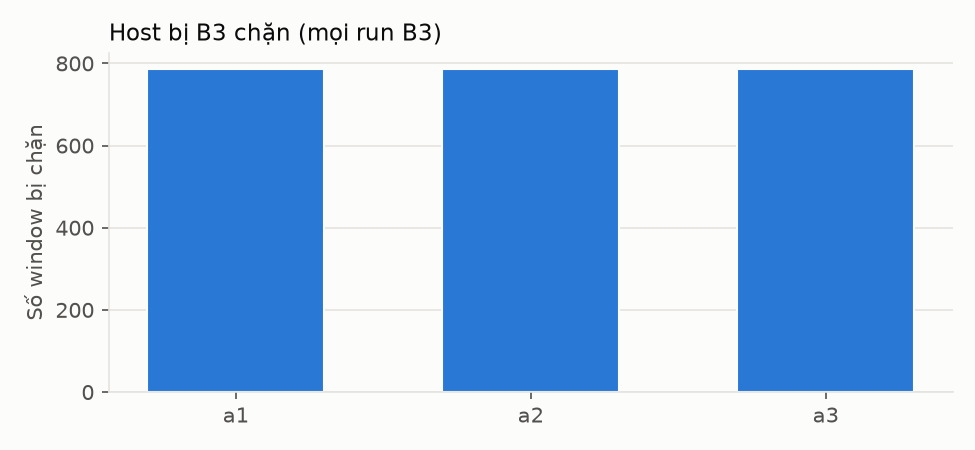
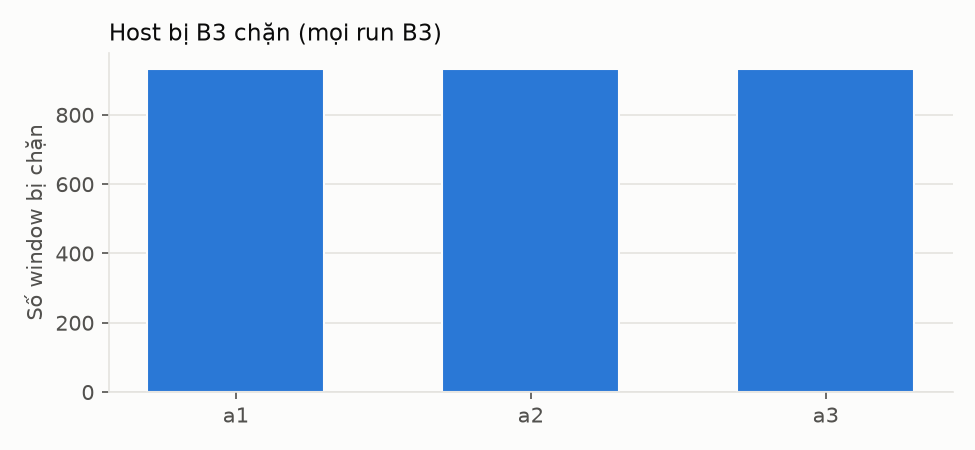
Thi nghiem bo sung S3S: SYN flood voi IP nguon gia mao
- attack_lab/run_net: tuy chon spoof (hping3 --rand-source), ghi vao ground truth
- configs/scenarios/S3S.yaml; 12 run B0-B3 x seed 10-12
- Ket qua: B3 van chan dung a1-a3, LSR 89.6% (B0 1.7%, B1/B2 ~2%);
  model van bat 100% du source_count ~580-955 chua tung thay luc train
- aggregate: Holm rieng cho ho chinh va ho bo sung (ten ket thuc "S")
- bao cao muc 7.4, cap nhat on tap (cau 4, 14), handbook, hinh tuan 10

diff --git a/traffic/attack_lab.py b/traffic/attack_lab.py
@@ -28,7 +28,7 @@ import sys
 from safety import assert_lab_target
 
 
-def run_syn(server, pps, duration, port):
+def run_syn(server, pps, duration, port, spoof=False):
     if shutil.which("hping3") is None:
         print("Chưa cài hping3. Cài: sudo apt-get install hping3")
         return 1
@@ -37,12 +37,12 @@ def run_syn(server, pps, duration, port):
     # 'timeout' chặn cứng thời lượng: hping3 -i uX thường chậm hơn danh
     # nghĩa, nếu dùng -c (số gói) thì tấn công kéo dài quá pha -> lệch nhãn.
     cmd = ["timeout", str(int(duration)), "hping3", "-S", "-p", str(port),
-           "-i", "u%d" % interval_us, server]
+           "-i", "u%d" % interval_us] + (["--rand-source"] if spoof else []) + [server]
     print("[attack:syn] rate~%d pps, %ds ->" % (pps, duration), " ".join(cmd))
     return subprocess.call(cmd, stdout=subprocess.DEVNULL)
 
 
-def run_udp_hping(server, mbps, duration, port, payload=1000):
+def run_udp_hping(server, mbps, duration, port, payload=1000, spoof=False):
     if shutil.which("hping3") is None:
         print("Chưa cài hping3. Cài: sudo apt-get install hping3")
         return 1
@@ -50,7 +50,8 @@ def run_udp_hping(server, mbps, duration, port, payload=1000):
     pps = max(1, int(mbps * 1e6 / 8 / (payload + 42)))
     interval_us = max(1, int(1_000_000 / pps))
     cmd = ["timeout", str(int(duration)), "hping3", "--udp", "-p", str(port),
-           "-d", str(payload), "-i", "u%d" % interval_us, server]
+           "-d", str(payload), "-i", "u%d" % interval_us] + \
+        (["--rand-source"] if spoof else []) + [server]
     print("[attack:udp] trần %dMbps (~%d pps), %ds ->" % (mbps, pps, duration),
           " ".join(cmd))
     return subprocess.call(cmd, stdout=subprocess.DEVNULL)
@@ -76,16 +77,21 @@ def main():
     ap.add_argument("--mbps", type=int, default=8, help="udp: Mbps trần")
     ap.add_argument("--port", type=int, default=80)
     ap.add_argument("--udp-tool", choices=["hping3", "iperf3"], default="hping3")
+    ap.add_argument("--spoof", action="store_true",
+                    help="giả mạo IP nguồn ngẫu nhiên (hping3 --rand-source). Chỉ "
+                         "dùng trong Mininet cô lập: phản hồi tới IP giả bị switch drop")
     args = ap.parse_args()
     assert_lab_target(args.server)
     if args.duration <= 0 or args.duration > 600:
         sys.exit("duration phải trong (0, 600] giây.")
 
     if args.type == "syn":
-        sys.exit(run_syn(args.server, args.pps, args.duration, args.port))
+        sys.exit(run_syn(args.server, args.pps, args.duration, args.port, args.spoof))
     else:
-        fn = run_udp_hping if args.udp_tool == "hping3" else run_udp
-        sys.exit(fn(args.server, args.mbps, args.duration, args.port))
+        if args.udp_tool == "hping3":
+            sys.exit(run_udp_hping(args.server, args.mbps, args.duration, args.port,
+                                   spoof=args.spoof))
+        sys.exit(run_udp(args.server, args.mbps, args.duration, args.port))
 
 
 if __name__ == "__main__":

diff --git a/analysis/report_tables.py b/analysis/report_tables.py
@@ -10,6 +10,7 @@ import csv
 import os
 
 SCN_NAME = {"S1": "S1 Normal", "S2": "S2 Flash", "S3": "S3 SYN flood",
+            "S3S": "S3S SYN flood IP giả mạo",
             "S4": "S4 UDP flood", "S5": "S5 Flash+DDoS", "S6": "S6 Nền đổi"}
 
 
@@ -58,7 +59,7 @@ def main():
           "(seed). B0 không phòng thủ nên không có metric phát hiện.", ""]
     pct = {"pct": True}
     num = {"pct": False}
-    md += table(rows, {"S3", "S4", "S5"}, [
+    md += table(rows, {"S3", "S3S", "S4", "S5"}, [
         ("lsr_attack", "LSR probe (pha tấn công)", pct),
         ("user_sr_attack", "Client hợp lệ OK (pha tấn công)", pct),
         ("lsr", "LSR cả run", pct),
@@ -71,7 +72,7 @@ def main():
         ("flash_sr", "User Flash OK", pct),
         ("lsr", "LSR cả run", pct),
     ], "Bảng B — Báo nhầm & Flash Crowd hợp lệ")
-    md += table(rows, {"S3", "S4", "S5"}, [
+    md += table(rows, {"S3", "S3S", "S4", "S5"}, [
         ("recall", "Recall", pct), ("precision", "Precision", pct),
         ("detection_latency_s", "Trễ phát hiện (s)", {"pct": False, "nd": 1}),
         ("mitigation_latency_s", "Trễ mitigation (s)", {"pct": False, "nd": 1}),
@@ -84,10 +85,11 @@ def main():
         st = list(csv.DictReader(open(args.stats)))
         md += ["### Bảng D — Kiểm định B3 so với từng baseline", "",
                "Đơn vị = run. Hiệu = mean(B3) − mean(baseline), CI95 bootstrap. "
-               "p đã hiệu chỉnh Holm trong từng metric. \"Tách hoàn toàn\" = mọi "
+               "p đã hiệu chỉnh Holm trong từng metric, riêng cho họ kịch bản chính "
+               "(S1–S6) và họ thí nghiệm bổ sung S3S (IP giả mạo). \"Tách hoàn toàn\" = mọi "
                "run của B3 tốt hơn mọi run của baseline (U = 0). Lưu ý: với n run/"
                "nhóm, p Mann-Whitney nhỏ nhất có thể đạt là 2/C(2n,n) (n=3 → 0.10; "
-               "n=5 → 0.0079), nên sau Holm với 9 phép so sánh, MW không thể xuống "
+               "n=5 → 0.0079), nên sau Holm với 9 phép so sánh (họ chính), MW không thể xuống "
                "dưới 0.05 dù hai nhóm tách hoàn toàn; Welch t-test (giả định gần "
                "chuẩn) là kiểm định chính, MW là kiểm tra phi tham số bổ trợ.", "",
                "| Metric | Scenario | So với | n | Hiệu (B3−X) | CI95 hiệu | Tách hoàn toàn | p Welch (Holm) | p MW (Holm) |",

diff --git a/mininet/run_net.py b/mininet/run_net.py
@@ -171,16 +171,18 @@ def run_scenario(net, scenario_path, seed=0, jitter=0.0, wait_detector=0.0):
             elif kind == "syn":
                 attack_ips.append(h.IP())
                 h.cmd("python3 %s/traffic/attack_lab.py --type syn --server %s "
-                      "--pps %d --duration %d >/tmp/%s.log 2>&1 &"
-                      % (ROOT, srv_ip, params["pps"], dur, hn))
+                      "--pps %d --duration %d %s>/tmp/%s.log 2>&1 &"
+                      % (ROOT, srv_ip, params["pps"], dur,
+                         "--spoof " if ph.get("spoof") else "", hn))
             elif kind == "udp":
                 attack_ips.append(h.IP())
                 h.cmd("python3 %s/traffic/attack_lab.py --type udp --server %s "
-                      "--mbps %d --duration %d --port 5201 >/tmp/%s.log 2>&1 &"
-                      % (ROOT, srv_ip, params["mbps"], dur, hn))
+                      "--mbps %d --duration %d --port 5201 %s>/tmp/%s.log 2>&1 &"
+                      % (ROOT, srv_ip, params["mbps"], dur,
+                         "--spoof " if ph.get("spoof") else "", hn))
         ground["phases"].append({"kind": kind, "start": ph["start"],
                                  "end": ph["end"], "hosts": hosts,
-                                 "params": params})
+                                 "params": params, "spoof": bool(ph.get("spoof"))})
 
     while time.time() - t0 < duration:
         time.sleep(0.5)

diff --git a/analysis/aggregate.py b/analysis/aggregate.py
@@ -272,8 +272,16 @@ def compare_all(groups, out_path, ref="B3", others=("B0", "B1", "B2")):
                              "p_welch": None if p_w is None else round(p_w, 6),
                              "separated": int(sep)})
         if fam:
-            adj = holm_bonferroni({"%s|%s" % k: v for k, v in fam.items()})
-            adj_w = holm_bonferroni({"%s|%s" % k: v for k, v in fam_w.items()})
+            # Holm theo HỌ: kịch bản chính và thí nghiệm bổ sung (tên kết thúc
+            # bằng "S", vd S3S = IP giả mạo, thêm sau khi họ chính đã chốt)
+            # được hiệu chỉnh riêng, để thêm thí nghiệm phụ không làm đổi kết
+            # luận của thiết kế chính.
+            adj, adj_w = {}, {}
+            for supp in (False, True):
+                keys = [k for k in fam if k[0].endswith("S") == supp]
+                if keys:
+                    adj.update(holm_bonferroni({"%s|%s" % k: fam[k] for k in keys}))
+                    adj_w.update(holm_bonferroni({"%s|%s" % k: fam_w[k] for k in keys}))
             for r in rows:
                 k = "%s|%s" % (r["scenario"], r["other"])
                 if r["metric"] == metric and k in adj:

diff --git a/analysis/weekly_figures.py b/analysis/weekly_figures.py
@@ -437,11 +437,12 @@ def week10_11(summary, raw, week7_dir, outdir):
         return print("[bỏ qua tuần 10–11] thiếu", summary)
     rows = MF.load_summary(summary)
     specs10 = [
-        (["S3", "S4", "S5"], "lsr_attack", "LSR probe trong pha tấn công",
+        (["S3", "S3S", "S4", "S5"], "lsr_attack", "LSR probe trong pha tấn công",
          "LSR trong pha tấn công (mean ± CI95)", "lsr_attack.png",
          ("B0", "B1", "B2", "B3"), (0, 1.05), "%.2f",
-         "Thước đo chính: tỉ lệ request probe thành công TRONG pha tấn công."),
-        (["S3", "S4", "S5"], "user_sr_attack", "Tỉ lệ thành công client hợp lệ",
+         "Thước đo chính: tỉ lệ request probe thành công TRONG pha tấn công. "
+         "S3S = SYN flood với IP nguồn giả mạo (thí nghiệm bổ sung, n = 3)."),
+        (["S3", "S3S", "S4", "S5"], "user_sr_attack", "Tỉ lệ thành công client hợp lệ",
          "Mọi client hợp lệ h1–h8 trong pha tấn công", "user_sr_attack.png",
          ("B0", "B1", "B2", "B3"), (0, 1.05), "%.2f",
          "Thước đo độc lập với feedback: client h1–h8 không được đưa vào vòng "

diff --git a/analysis/make_figures.py b/analysis/make_figures.py
@@ -39,7 +39,8 @@ BASE_COLOR = {"B0": "#2a78d6", "B1": "#eb6834", "B2": "#1baf7a", "B3": "#eda100"
 BASE_NAME = {"B0": "B0 không phòng thủ", "B1": "B1 threshold + RL thô",
              "B2": "B2 ML + RL thô", "B3": "B3 ML + chặn chọn lọc + feedback"}
 SCN_NAME = {"S1": "S1 Normal", "S2": "S2 Flash", "S3": "S3 SYN flood",
-            "S4": "S4 UDP flood", "S5": "S5 Flash+DDoS", "S6": "S6 Nền đổi"}
+            "S4": "S4 UDP flood", "S5": "S5 Flash+DDoS", "S6": "S6 Nền đổi",
+            "S3S": "S3S IP giả mạo"}
 PHASE_FILL = {"ddos": "#e3494822", "flash": "#6250d618"}
 
 plt.rcParams.update({

diff --git a/results/RESULTS.md b/results/RESULTS.md
@@ -10,6 +10,10 @@ Mỗi ô: trung bình ± nửa khoảng tin cậy 95% (t-Student) trên các run
 | S3 SYN flood | B1 | 5 | 35.9% ± 5.8 | 35.5% ± 6.6 | 67.8% ± 2.8 | 0.97 ± 0.04 | 3006 ± 144 |
 | S3 SYN flood | B2 | 5 | 37.2% ± 3.1 | 34.9% ± 3.7 | 68.5% ± 1.6 | 0.98 ± 0.02 | 2929 ± 66 |
 | S3 SYN flood | B3 | 5 | 98.7% ± 0.7 | 94.7% ± 0.6 | 99.3% ± 0.3 | 1.00 ± 0.00 | 2102 ± 86 |
+| S3S SYN flood IP giả mạo | B0 | 3 | 1.7% ± 2.9 | 3.2% ± 2.3 | 50.5% ± 2.9 | 0.67 ± 0.25 | 116 ± 151 |
+| S3S SYN flood IP giả mạo | B1 | 3 | 2.1% ± 2.4 | 5.3% ± 2.6 | 51.1% ± 1.2 | 0.91 ± 0.10 | 66 ± 21 |
+| S3S SYN flood IP giả mạo | B2 | 3 | 2.1% ± 1.0 | 4.5% ± 3.6 | 51.1% ± 0.5 | 0.66 ± 0.41 | 63 ± 14 |
+| S3S SYN flood IP giả mạo | B3 | 3 | 89.6% ± 28.4 | 86.1% ± 24.4 | 94.8% ± 14.2 | 1.00 ± 0.00 | 3390 ± 347 |
 | S4 UDP flood | B0 | 5 | 2.9% ± 1.1 | 7.1% ± 0.8 | 51.5% ± 0.6 | 0.97 ± 0.04 | 302 ± 363 |
 | S4 UDP flood | B1 | 5 | 21.9% ± 5.1 | 27.8% ± 1.7 | 61.0% ± 2.6 | 0.97 ± 0.02 | 2874 ± 221 |
 | S4 UDP flood | B2 | 5 | 25.8% ± 4.1 | 27.6% ± 7.8 | 62.9% ± 2.1 | 0.95 ± 0.07 | 2923 ± 248 |
@@ -48,6 +52,10 @@ Mỗi ô: trung bình ± nửa khoảng tin cậy 95% (t-Student) trên các run
 | S3 SYN flood | B1 | 5 | 100.0% ± 0.0 | 92.1% ± 8.7 | 0.9 ± 0.5 | 2.1 ± 0.5 | 0.8 ± 0.0 | 0.00 ± 0.00 | 1.0 ± 0.0 |
 | S3 SYN flood | B2 | 5 | 100.0% ± 0.0 | 99.2% ± 1.3 | 1.5 ± 0.2 | 2.6 ± 0.2 | 2.2 ± 0.0 | 16.39 ± 0.55 | 1.0 ± 0.0 |
 | S3 SYN flood | B3 | 5 | 100.0% ± 0.0 | 99.6% ± 1.1 | 1.0 ± 0.3 | 2.1 ± 0.3 | 2.2 ± 0.1 | 15.99 ± 0.60 | 3.0 ± 0.0 |
+| S3S SYN flood IP giả mạo | B0 | 3 | — | — | — | — | 1.0 ± 0.1 | 0.01 ± 0.00 | 0.0 ± 0.0 |
+| S3S SYN flood IP giả mạo | B1 | 3 | 100.0% ± 0.0 | 95.4% ± 7.1 | 1.3 ± 1.1 | 2.6 ± 1.1 | 0.9 ± 0.0 | 0.00 ± 0.00 | 1.0 ± 0.0 |
+| S3S SYN flood IP giả mạo | B2 | 3 | 100.0% ± 0.0 | 100.0% ± 0.0 | 2.0 ± 0.4 | 3.3 ± 0.4 | 2.8 ± 0.3 | 22.77 ± 2.96 | 1.0 ± 0.0 |
+| S3S SYN flood IP giả mạo | B3 | 3 | 100.0% ± 0.0 | 100.0% ± 0.0 | 1.9 ± 0.4 | 3.1 ± 0.4 | 2.9 ± 0.2 | 22.78 ± 1.80 | 3.0 ± 0.0 |
 | S4 UDP flood | B0 | 5 | — | — | — | — | 0.7 ± 0.1 | 0.00 ± 0.00 | 0.0 ± 0.0 |
 | S4 UDP flood | B1 | 5 | 100.0% ± 0.0 | 95.8% ± 7.8 | 1.2 ± 0.4 | 2.3 ± 0.4 | 0.8 ± 0.2 | 0.00 ± 0.00 | 1.0 ± 0.0 |
 | S4 UDP flood | B2 | 5 | 100.0% ± 0.0 | 99.6% ± 1.1 | 1.5 ± 0.3 | 2.6 ± 0.3 | 2.2 ± 0.2 | 16.58 ± 0.98 | 1.0 ± 0.0 |
@@ -59,13 +67,16 @@ Mỗi ô: trung bình ± nửa khoảng tin cậy 95% (t-Student) trên các run
 
 ### Bảng D — Kiểm định B3 so với từng baseline
 
-Đơn vị = run. Hiệu = mean(B3) − mean(baseline), CI95 bootstrap. p đã hiệu chỉnh Holm trong từng metric. "Tách hoàn toàn" = mọi run của B3 tốt hơn mọi run của baseline (U = 0). Lưu ý: với n run/nhóm, p Mann-Whitney nhỏ nhất có thể đạt là 2/C(2n,n) (n=3 → 0.10; n=5 → 0.0079), nên sau Holm với 9 phép so sánh, MW không thể xuống dưới 0.05 dù hai nhóm tách hoàn toàn; Welch t-test (giả định gần chuẩn) là kiểm định chính, MW là kiểm tra phi tham số bổ trợ.
+Đơn vị = run. Hiệu = mean(B3) − mean(baseline), CI95 bootstrap. p đã hiệu chỉnh Holm trong từng metric, riêng cho họ kịch bản chính (S1–S6) và họ thí nghiệm bổ sung S3S (IP giả mạo). "Tách hoàn toàn" = mọi run của B3 tốt hơn mọi run của baseline (U = 0). Lưu ý: với n run/nhóm, p Mann-Whitney nhỏ nhất có thể đạt là 2/C(2n,n) (n=3 → 0.10; n=5 → 0.0079), nên sau Holm với 9 phép so sánh (họ chính), MW không thể xuống dưới 0.05 dù hai nhóm tách hoàn toàn; Welch t-test (giả định gần chuẩn) là kiểm định chính, MW là kiểm tra phi tham số bổ trợ.
 
 | Metric | Scenario | So với | n | Hiệu (B3−X) | CI95 hiệu | Tách hoàn toàn | p Welch (Holm) | p MW (Holm) |
 | --- | --- | --- | --- | --- | --- | --- | --- | --- |
 | lsr_attack | S3 | B0 | 5/5 | +0.971 | [0.967, 0.977] | có | < 0.001 | 0.0714 |
 | lsr_attack | S3 | B1 | 5/5 | +0.628 | [0.599, 0.670] | có | < 0.001 | 0.0714 |
 | lsr_attack | S3 | B2 | 5/5 | +0.615 | [0.595, 0.634] | có | < 0.001 | 0.0714 |
+| lsr_attack | S3S | B0 | 3/3 | +0.879 | [0.747, 0.952] | có | 0.016 | 0.2296 |
+| lsr_attack | S3S | B1 | 3/3 | +0.874 | [0.742, 0.947] | có | 0.016 | 0.2296 |
+| lsr_attack | S3S | B2 | 3/3 | +0.874 | [0.742, 0.943] | có | 0.016 | 0.2296 |
 | lsr_attack | S4 | B0 | 5/5 | +0.969 | [0.960, 0.977] | có | < 0.001 | 0.0714 |
 | lsr_attack | S4 | B1 | 5/5 | +0.779 | [0.741, 0.808] | có | < 0.001 | 0.0714 |
 | lsr_attack | S4 | B2 | 5/5 | +0.740 | [0.718, 0.769] | có | < 0.001 | 0.0714 |
@@ -75,6 +86,9 @@ Mỗi ô: trung bình ± nửa khoảng tin cậy 95% (t-Student) trên các run
 | user_sr_attack | S3 | B0 | 5/5 | +0.931 | [0.922, 0.939] | có | < 0.001 | 0.0675 |
 | user_sr_attack | S3 | B1 | 5/5 | +0.592 | [0.556, 0.639] | có | < 0.001 | 0.0675 |
 | user_sr_attack | S3 | B2 | 5/5 | +0.597 | [0.573, 0.621] | có | < 0.001 | 0.0675 |
+| user_sr_attack | S3S | B0 | 3/3 | +0.829 | [0.718, 0.893] | có | 0.012 | 0.3 |
+| user_sr_attack | S3S | B1 | 3/3 | +0.808 | [0.697, 0.873] | có | 0.012 | 0.3 |
+| user_sr_attack | S3S | B2 | 3/3 | +0.816 | [0.705, 0.883] | có | 0.012 | 0.3 |
 | user_sr_attack | S4 | B0 | 5/5 | +0.929 | [0.924, 0.935] | có | < 0.001 | 0.0675 |
 | user_sr_attack | S4 | B1 | 5/5 | +0.722 | [0.709, 0.731] | có | < 0.001 | 0.0675 |
 | user_sr_attack | S4 | B2 | 5/5 | +0.724 | [0.675, 0.772] | có | < 0.001 | 0.0675 |

diff --git a/docs/BAO_CAO_KET_QUA.md b/docs/BAO_CAO_KET_QUA.md
@@ -14,7 +14,7 @@
 | **RQ1** Đọc telemetry từ data plane P4 theo thời gian thực có khả thi? | Có. Controller đọc counter qua P4Runtime mỗi ~1.13s; CPU detector ≈ 2% | Hình 4.1, 4.2; Bảng C |
 | **RQ2** Phát hiện theo volume (threshold/EWMA) có báo nhầm Flash Crowd? | Có, rất nặng: Flash-FPR 0.76 (threshold) và 0.95 (EWMA) offline; 0.98 online ở S2 | Hình 6.1, 6.3; Bảng 7.1; Bảng B |
 | **RQ3** ML dùng feature hành vi có giảm báo nhầm mà vẫn bắt được tấn công? | Có: RandomForest Flash-FPR 0.010 offline, **0.0** online ở S2 và S5; Recall 1.0 | Hình 7.1, 8.1; Bảng 7.1, B, C |
-| **RQ4** Mitigation chọn lọc có giữ dịch vụ cho người dùng hợp lệ? | Có. LSR trong pha tấn công: **98.7% / 99.8% / 57.9%** (S3/S4/S5) so với 1.5–2.9% khi không phòng thủ và 19–37% khi rate-limit thô | Hình 10.1, 10.2, 11.1; Bảng A, D |
+| **RQ4** Mitigation chọn lọc có giữ dịch vụ cho người dùng hợp lệ? | Có. LSR trong pha tấn công: **98.7% / 99.8% / 57.9%** (S3/S4/S5) so với 1.5–2.9% khi không phòng thủ và 19–37% khi rate-limit thô. Với IP nguồn giả mạo: **89.6%** so với ~2% | Hình 10.1, 10.2, 11.1; Bảng A, D; mục 7.4 |
 
 **Phát hiện quan trọng nhất:** chỉ cải thiện bộ phát hiện (B1 → B2) **không** cải
 thiện trải nghiệm người dùng khi bị tấn công: LSR của B2 ≈ B1 ở cả S3, S4, S5
@@ -50,7 +50,8 @@ syn_ack_ratio, source_count, source_entropy, growth_slope.
 
 **Dữ liệu tách bạch:** dataset train lấy từ **seed 0–3** (24 run, chỉ B0); ma trận
 đánh giá dùng **seed 10–14** chưa từng thấy (96 run: S1, S2, S6 × 3 seed; S3, S4, S5
-× 5 seed; × 4 baseline). Tổng: 120 run hợp lệ, khoảng 5 giờ chạy thực tế.
+× 5 seed; × 4 baseline). Thí nghiệm bổ sung S3S (SYN flood với IP nguồn giả
+mạo, mục 7.4): 12 run. Tổng: 132 run hợp lệ, khoảng 5,5 giờ chạy thực tế.
 
 ## 3. Tuần 4–5 — Telemetry real-time và traffic có nhãn
 
@@ -153,6 +154,35 @@ n = 5 mỗi nhóm (p nhỏ nhất có thể có = 0.0079; nhân 9 phép so sánh
 phải dấu hiệu thiếu khác biệt. Muốn MW đạt p < 0.05 sau Holm cần n ≥ 7 run mỗi
 nhóm.
 
+### 7.4 Thí nghiệm bổ sung — IP nguồn giả mạo (S3S)
+
+Kiểm chứng lập luận "chặn theo cổng vào vẫn đúng khi IP nguồn không tin được".
+S3S giống S3 nhưng 3 host tấn công dùng `hping3 --rand-source`: mỗi gói SYN mang
+một IP nguồn ngẫu nhiên. Phản hồi tới các IP giả bị switch drop (không có route),
+nên mọi traffic vẫn nằm trong Mininet. Chạy B0–B3 × seed 10–12 (n = 3).
+
+| | LSR pha tấn công | Client hợp lệ OK | Trễ mitigation |
+| --- | --- | --- | --- |
+| B0 | 1.7% ± 2.9 | 3.2% ± 2.3 | — |
+| B1 | 2.1% ± 2.4 | 5.3% ± 2.6 | 2.6 s |
+| B2 | 2.1% ± 1.0 | 4.5% ± 3.6 | 3.3 s |
+| **B3** | **89.6% ± 28.4** (76.3 / 96.0 / 96.3) | **86.1% ± 24.4** | 3.1 s |
+
+- **Bộ phát hiện vẫn đúng** dù gặp dữ liệu chưa từng thấy lúc train: số nguồn ước
+  lượng nhảy lên ~580–955 (S3 thường: ~8), nhưng RandomForest vẫn đạt Recall 1.0
+  và FPR 0, chỉ chậm hơn 0.6–0.9 s (trễ phát hiện 1.9–2.0 s so với 1.0–1.5 s ở S3).
+- **B3 vẫn chặn đúng a1, a2, a3** ở cả 3 run, không chặn host hợp lệ nào: cổng
+  vào không bị ảnh hưởng bởi việc giả mạo IP.
+- **Rate-limit thô (B1, B2) mất tác dụng hoàn toàn** khi IP bị giả mạo: chỉ ~2%,
+  so với ~36% ở S3 thường. Giải thích khả dĩ (chưa đo trực tiếp): với IP giả,
+  SYN-ACK của server không tới được ai nên không có RST trả về; các kết nối
+  half-open tồn đọng tới hết timeout, nên hàng đợi của server bị lấp đầy ngay cả
+  với 300 SYN/s lọt qua hạn mức.
+- Kiểm định (họ Holm riêng cho thí nghiệm bổ sung): B3 tách hoàn toàn khỏi
+  B0/B1/B2 ở cả 6 so sánh; Welch-Holm p ≤ 0.016. Với n = 3, Mann-Whitney không
+  thể xuống dưới 0.10.
+- Một run (seed 10) chỉ đạt 76%, nên khoảng tin cậy rộng. Cần thêm seed để thu hẹp.
+
 ## 8. Threats to Validity
 
 **Nội tại**
@@ -169,6 +199,8 @@ nhóm.
   được phát hiện qua khoảng trống trong log, loại bỏ và chạy lại.
 
 **Ngoại tại**
+- *Giả mạo IP mới thử với SYN flood, 3 run* (mục 7.4); chưa thử UDP flood giả
+  mạo, cũng chưa thử kẻ tấn công giả mạo **MAC** hoặc nhiều host sau cùng một cổng.
 - *Chặn theo cổng vào giả định mỗi cổng ≈ một host* (switch biên). Ở switch lõi,
   một cổng gom nhiều người dùng; chặn cổng sẽ gây hại tập thể, cần kết hợp IP
   hoặc flow.
@@ -193,6 +225,7 @@ make dataset week6            # tuần 6
 make week7                    # tuần 7: train + models/rf.pkl
 make matrix                   # tuần 8–10: 72 run, ~3 giờ
 make matrix SCNS="S3 S4 S5" SEEDS="13 14"   # thêm n cho S3–S5, ~1 giờ
+make matrix SCNS="S3S"                      # bổ sung IP giả mạo, ~30 phút
 make analyze figures          # tuần 10–11: bảng + kiểm định + hình
 ```
 

diff --git a/docs/HANDBOOK.md b/docs/HANDBOOK.md
@@ -294,7 +294,8 @@ $ python3 analysis/compute_metrics.py --run results/demo/S5_B3_seed99
 `chặn:a1,a2,a3`; không host h1–h8 nào bị chặn.
 
 > **Kết quả đã đo:** rule đầu tiên sau 2,1–2,5 s; trên mọi run B3 không host hợp
-> lệ nào bị chặn. Dịch vụ hồi phục không tức thời: các kết nối half-open trên
+> lệ nào bị chặn. Với IP nguồn giả mạo (kịch bản S3S, `spoof: true`), B3 vẫn
+> chặn đúng a1–a3, LSR 89,6%; rate-limit thô chỉ còn ~2%. Dịch vụ hồi phục không tức thời: các kết nối half-open trên
 > server cần vài giây mới hết. Hình: `figures/tuan09/`.
 
 **Tự kiểm tra:** vì sao chặn theo cổng vào chứ không theo IP nguồn? Vì sao

diff --git a/figures/README.md b/figures/README.md
@@ -74,7 +74,7 @@ Sinh bằng `python3 analysis/weekly_figures.py` (hoặc `make figures`). Mỗi 
 
 ![lsr_attack.png](tuan10/lsr_attack.png)
 
-*Thước đo chính: tỉ lệ request probe thành công TRONG pha tấn công.*
+*Thước đo chính: tỉ lệ request probe thành công TRONG pha tấn công. S3S = SYN flood với IP nguồn giả mạo (thí nghiệm bổ sung, n = 3).*
 
 ![user_sr_attack.png](tuan10/user_sr_attack.png)
 
